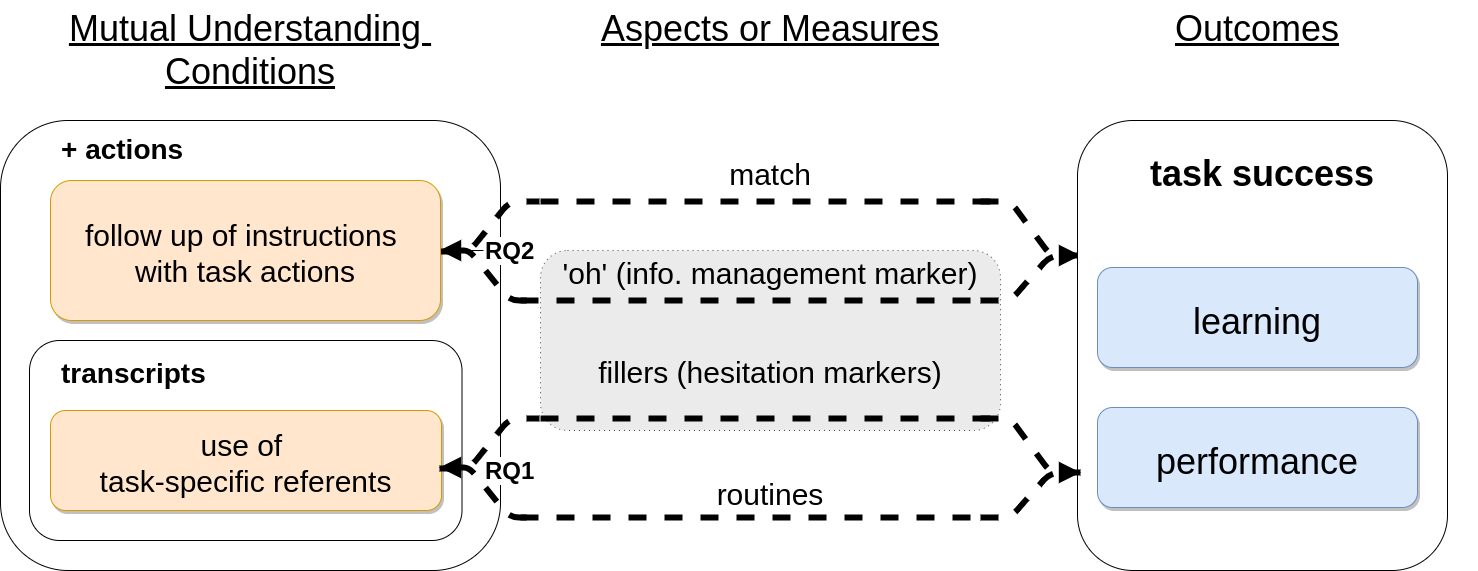
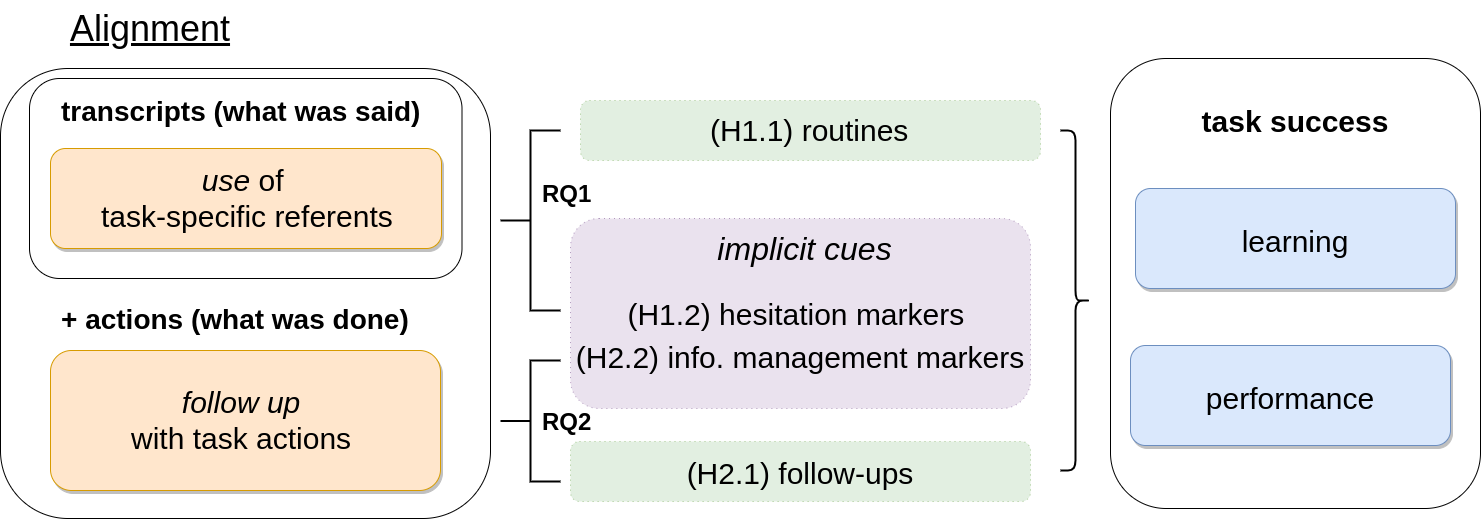
Update README

diff --git a/README.md b/README.md
@@ -6,7 +6,7 @@ Specifically, it processes data from a collaborative problem solving activity na
 
 In brief: 
 
-1. JUSThink Dialogue and Actions Corpus contains event logs, test responses and transcripts of children aged 9 through 12, as they participate in the JUSThink activity in pairs of two, to solve a problem on graphs together. 
+1. JUSThink Dialogue and Actions Corpus contains transcripts, event logs, and test responses  of children aged 9 through 12, as they participate in the JUSThink activity in pairs of two, to solve a problem on graphs together. 
 2. Our work [[1]](#references) studies the participants' use of expressions that are related to the task at hand, their follow up actions of these expressions, and how it links to task success.
 3. The JUSThink activity and its study is first described in [[2]](#references), and elaborated with findings concerning the link between children's learning, performance in the activity, and perception of self, the other and the robot in [[3]](#references). 
 
@@ -65,7 +65,7 @@ Considers each [research questions and hypotheses](#rqs_hs) studied in [[1]](#re
 Note that the later notebooks in numbering utilise processed data exported by the relevant subset of earlier notebooks.
 
 
-### 2.2. Additional External Tools <a name="additional_tools"></a>
+### 2.2. External Tools <a name="additional_tools"></a>
 
 1. [dialign](https://github.com/GuillaumeDD/dialign) tool to extract routines, specifically [Release 1.0](https://github.com/GuillaumeDD/dialign/releases/tag/v1.0) from [dialign-1.0.zip](https://github.com/GuillaumeDD/dialign/releases/download/v1.0/dialign-1.0.zip):
 It extracts routine expressions that are "shared" among the participants from transcripts.
@@ -79,24 +79,24 @@ Here is the structure of our work [[1]](#references):
 
 Specifically, we consider:
 
-* RQ1 How do the interlocutors use task specific referents? Does this link to task success?
+* RQ1: How do the interlocutors use task specific referents? Does this link to task success?
     * H1.1: Task specific referents become routine earlier for more successful teams.
     * H1.2: When (a) task specific referents become routine and (b) their routines are primed, they are more likely to be surrounded by hesitation phenomena for more successful teams.
 
-* RQ2 How do the interlocutors follow up the use of task specific referents with actions? Does this link to task success?
+* RQ2: How do the interlocutors follow up the use of task specific referents with actions? Does this link to task success?
     * H2.1: Instructions are more likely to be followed by the corresponding actions earlier in the dialogue for more successful teams.
-    * H2.2: When instructions are followed by the corresponding actions (or another action), they are more likely to be surrounded by information management phenomena for more successful teams.
+    * H2.2: When instructions are followed by a corresponding or a different action, the action is more likely to be surrounded by information management phenomena for more successful teams.
 
 The RQs and Hs are addressed in the notebook for [testing the hypotheses](tools/7_test_the_hypotheses.ipynb).
 
 
 ## Acknowledgements <a name="acknowledgements"></a>
- This project has received funding from the European Union's Horizon 2020 research and innovation programme under grant agreement No 765955. Namely, the [ANIMATAS Project](https://www.animatas.eu/).
+This project has received funding from the European Union's Horizon 2020 research and innovation programme under grant agreement No 765955. Namely, the [ANIMATAS Project](https://www.animatas.eu/).
 
 
 ## References <a name="references"></a>
 
-[1] U. Norman\*, T. Dinkar\*, B. Bruno, P. Dillenbourg, and C. Clavel, "How Do Children Use Task-specific Referents to Succeed in a Collaborative Learning Activity?: Studying Alignment in Spontaneous Speech via Automatic Methods," under review, 2021.
+[1] U. Norman\*, T. Dinkar\*, B. Bruno, and C. Clavel, "How Do Children Use Task-specific Referents to Succeed in a Collaborative Learning Activity?: Studying Alignment in Spontaneous Speech via Automatic Methods," under review, 2021.
 
 [2] J. Nasir, U. Norman, B. Bruno, and P. Dillenbourg, "You Tell, I Do, and We Swap until we Connect All the Gold Mines!," ERCIM News, vol. 2020, no. 120, 2020, [Online]. Available: [https://ercim-news.ercim.eu/en120/special/you-tell-i-do-and-we-swap-until-we-connect-all-the-gold-mines](https://ercim-news.ercim.eu/en120/special/you-tell-i-do-and-we-swap-until-we-connect-all-the-gold-mines).
 
